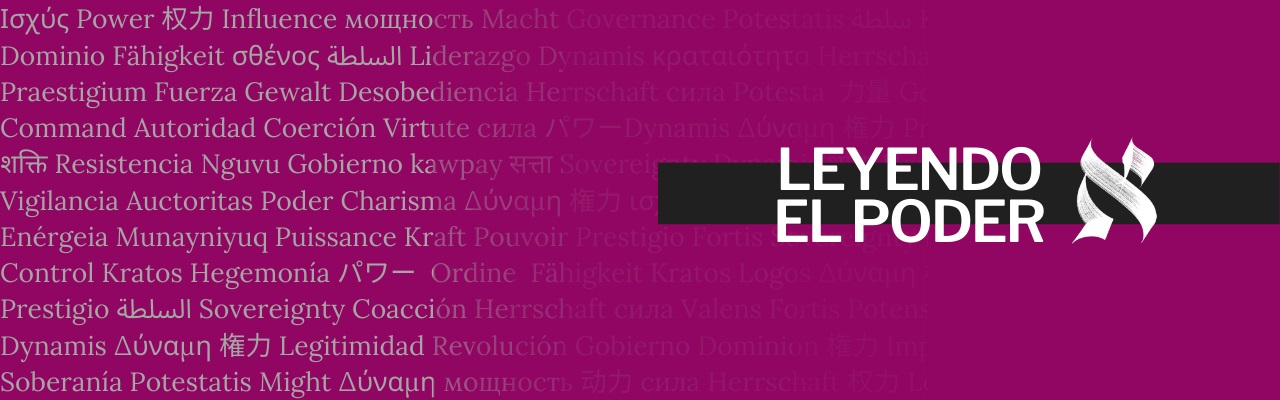
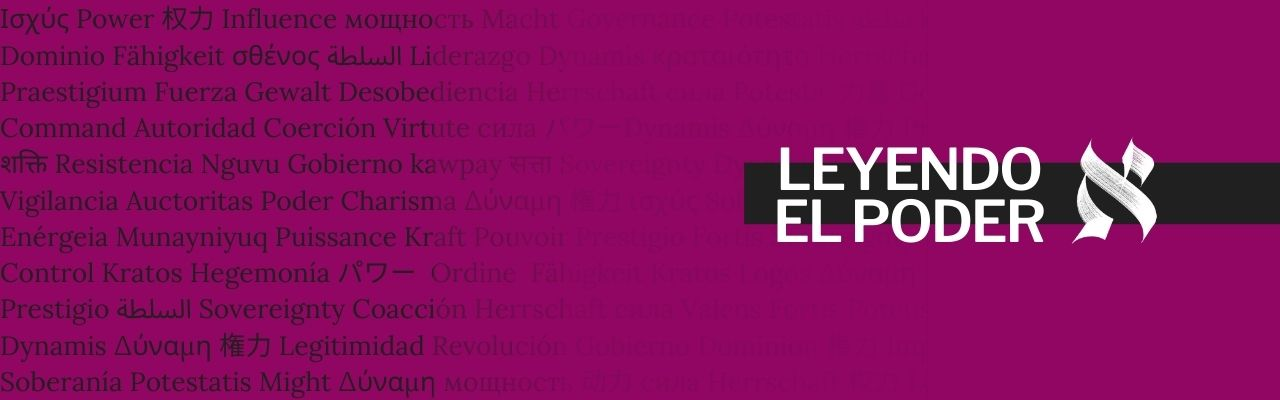
l

diff --git a/content/home/slider.md b/content/home/slider.md
@@ -19,12 +19,12 @@ height = "400px"
 [[item]]
   title = "Nuevo episodio"
   content = "La competencia geopolítica detrás de la vacuna COVID-19"
-  align = "center"  # Choose `center`, `left`, or `right`.
+  align = "left"  # Choose `center`, `left`, or `right`.
 
   # Overlay a color or image (optional).
   #   Deactivate an option by commenting out the line, prefixing it with `#`.
   overlay_color = "#666"  # An HTML color value.
-  overlay_img = "headers/bubbles-wide.jpg"  # Image path relative to your `static/media/` folder.
+  overlay_img = "headers/izquierda.jpg"  # Image path relative to your `static/media/` folder.
   overlay_filter = 0.5  # Darken the image. Value in range 0-1.
 
   # Call to action button (optional).
@@ -38,10 +38,10 @@ height = "400px"
 [[item]]
   title = "Próximos episodios"
   content = "Los prejuicios de las Relaciones Internacionales, Cuestionando la enseñanza de las RRII en Sudamérica"
-  align = "left"
+  align = "right"
 
   overlay_color = "#555"  # An HTML color value.
-  overlay_img = "headers/izquierda.jpg"  # Image path relative to your `static/media/` folder.
+  overlay_img = "headers/derecha.jpg"  # Image path relative to your `static/media/` folder.
   overlay_filter = 0.5  # Darken the image. Value in range 0-1.
 
 +++
